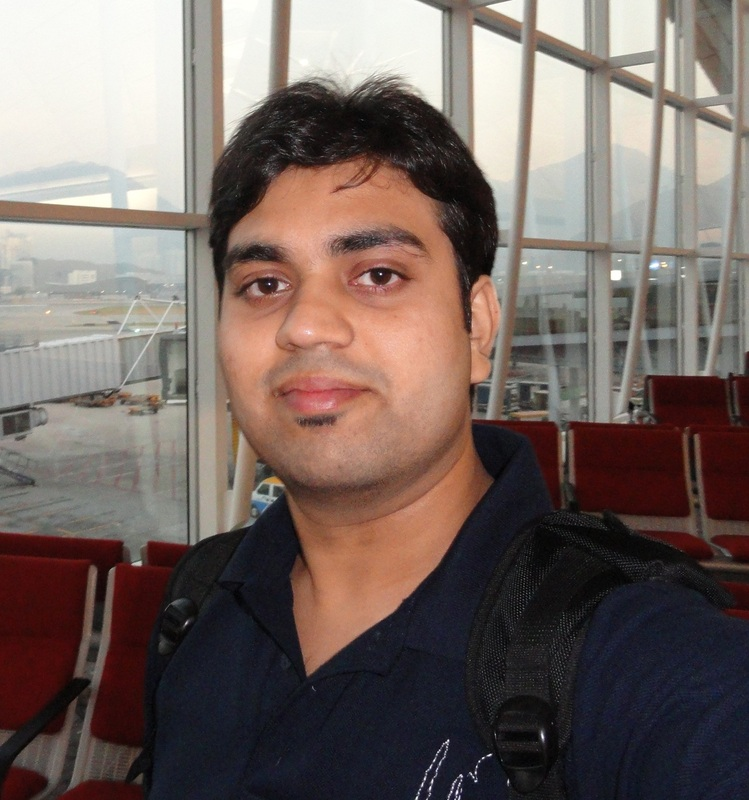
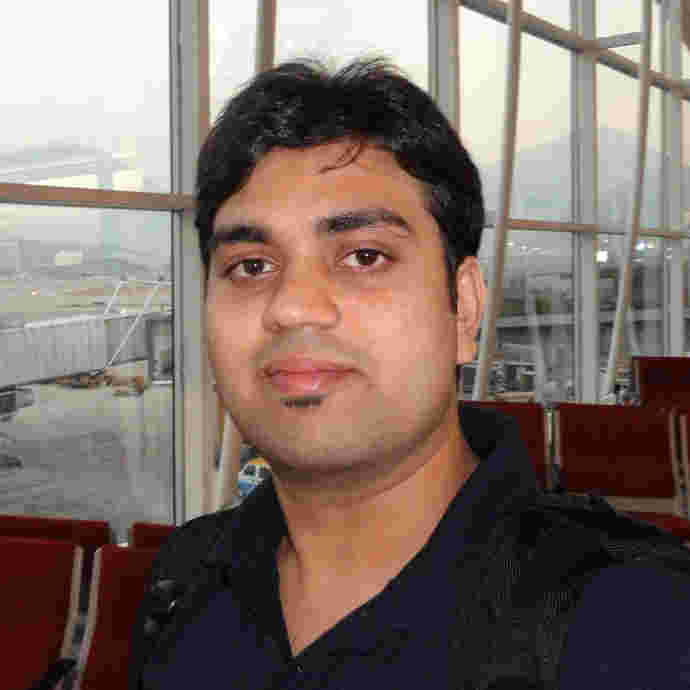
Added Kushal
Changed grad student formatting for multiple lines.
Modified Aditya jpg to 1:1 aspect ratio.

diff --git a/who_we_are.html b/who_we_are.html
@@ -59,10 +59,10 @@ The DFS research group brings together a group of top scientists and technology 
 </dl>
 
 <h3>Graduate Students</h3>
-<dl class="dl-horizontal people">
+<div style="padding-left:30px;">
 {% for role in site.data.people.grad %}
 	{% assign person = role[1] %}
-	<dt class="person" style="clear:none;" >
+	<dt class="person" >
 	  {% if person.webpage %}
 	  <a href="{{ person.webpage |escape }}">
 	  {% endif %}
@@ -78,8 +78,9 @@ The DFS research group brings together a group of top scientists and technology 
 	  {% endif %}
 	</dt>
 {% endfor %}
-	<dd></dd>
-</dl>
+</div>
+
+<br style="clear:both">
 
 <h3>Research Coordinator</h3>
 <dl class="dl-horizontal people">
@@ -107,6 +108,7 @@ The DFS research group brings together a group of top scientists and technology 
 		</dd>
 	{% endfor %}
 </dl>
+
 
 
 <h3>Collaborators</h3>

diff --git a/css/ictd.css b/css/ictd.css
@@ -103,9 +103,12 @@ dl.people dd {
     margin-bottom: 1em;
 }
 
-dl.people dt {
+dt.person {
   text-align: center;
+  float:left;
+  margin: 0px 20px 20px 20px;
 }
+
 
 div.people {
   text-align: center;
